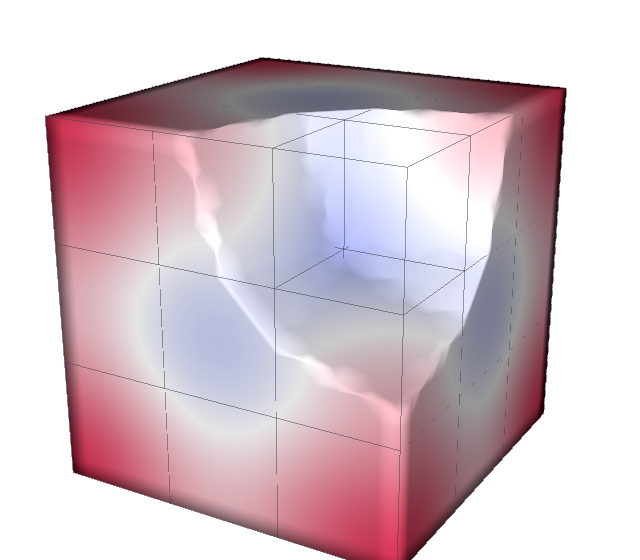
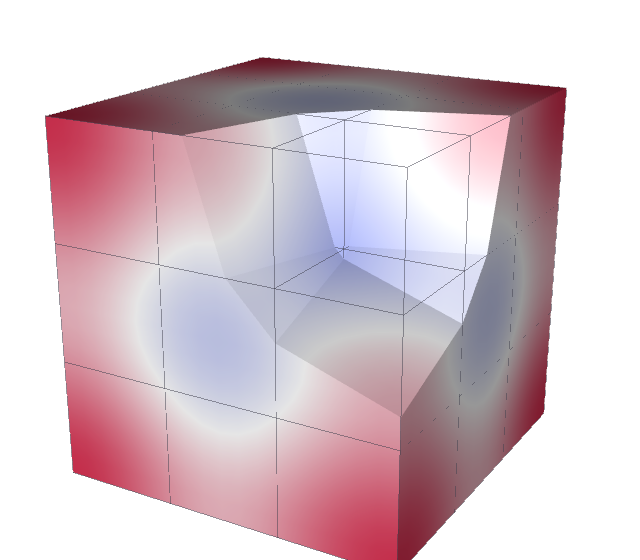
Gallery: Voronoi columns tile the cube, clipped solids shaded flat, slices lit mostly ambient; the page says how an implicit function is cut on straight cells

diff --git a/docs/gallery/_scene.py b/docs/gallery/_scene.py
@@ -64,21 +64,31 @@ def _twist(x):
 
 # ── The datasets ────────────────────────────────────────────────────
 
-def _voronoi_columns(n=60, layers=6, seed=3):
-    """Voronoi cells of random points over the unit square, the bounded ones,
-    extruded through the unit cube in ``layers``: polygonal prisms, faces of up to
-    a dozen points."""
+def _voronoi_columns(n=40, layers=6, seed=3):
+    """Voronoi cells of random points in the unit square, extruded through the unit
+    cube in ``layers``: polygonal prisms, faces of up to a dozen points. The points'
+    mirror images across the square's sides make the cells tile the square
+    exactly."""
     from scipy.spatial import Voronoi
 
     rng = np.random.default_rng(seed)
-    vor = Voronoi(rng.uniform(0, 1, (n, 2)))
-    regions = [r for r in (vor.regions[i] for i in vor.point_region)
-               if r and -1 not in r and all((0 <= vor.vertices[v]).all()
-                                            and (vor.vertices[v] <= 1).all() for v in r)]
+    seeds = rng.uniform(0, 1, (n, 2))
+    mirrored = [seeds]
+    for axis in (0, 1):
+        for side in (0.0, 1.0):
+            image = seeds.copy()
+            image[:, axis] = 2 * side - image[:, axis]
+            mirrored.append(image)
+    vor = Voronoi(np.concatenate(mirrored))
+    regions = [vor.regions[vor.point_region[i]] for i in range(n)]
+    # The mirrored cells' shared vertices are the square's; snap them onto it.
+    xy = np.clip(vor.vertices, 0.0, 1.0)
+    xy[np.abs(xy) < 1e-12] = 0.0
+    xy[np.abs(xy - 1) < 1e-12] = 1.0
     used = sorted({v for r in regions for v in r})
     renumber = {v: i for i, v in enumerate(used)}
     nv = len(used)
-    xy = vor.vertices[used]
+    xy = xy[used]
     points = np.array([[x, y, k / layers] for k in range(layers + 1) for x, y in xy])
     cells = []
     for r in regions:
@@ -150,9 +160,10 @@ def normals(surface):
 
 
 def boundary(data):
-    """``data``'s boundary as polygons with normals; a curved or high-order dataset
-    subdivided first, so it is linear."""
-    return normals(td.extract_surface(linear(data)))
+    """``data``'s boundary as polygons, a curved or high-order dataset subdivided
+    first, so it is linear. Shaded flat: a solid's boundary has sharp edges, which
+    point normals would smear."""
+    return td.extract_surface(linear(data))
 
 
 # ── Drawing ─────────────────────────────────────────────────────────
@@ -162,11 +173,13 @@ _COOL_TO_WARM = ((0.0, (0.23, 0.299, 0.754)), (0.5, (0.865, 0.865, 0.865)),
                  (1.0, (0.706, 0.016, 0.15)))
 
 
-def draw(path, parts, outline=None, view=(30.0, 20.0), size=(640, 560)):
+def draw(path, parts, outline=None, view=(30.0, 20.0), size=(640, 560), lit=True):
     """Draw ``parts`` -- ``(dataset, field name, range)``, a field on points or cells,
     or ``(dataset, None, None)`` for plain grey -- and ``outline`` (lines, thin and
     dark) to a PNG at ``path``, seen from ``view`` (azimuth and elevation in
-    degrees, from the -y side of the unit cube)."""
+    degrees, from the -y side of the unit cube). Lit less (``lit=False``), mostly
+    ambient, the parts show their colors, as a slice is read by them, with
+    enough shade to tell planes apart."""
     import vtkmodules.vtkCommonDataModel  # registers the pythonic constructors
     import vtkmodules.vtkRenderingOpenGL2  # noqa: F401  # registers the rendering backend
     from vtkmodules.vtkIOImage import vtkPNGWriter
@@ -205,9 +218,9 @@ def draw(path, parts, outline=None, view=(30.0, 20.0), size=(640, 560)):
         actor = vtkActor(mapper=mapper)
         if name is None:
             actor.property.color = (0.8, 0.8, 0.8)
-        actor.property.ambient = 0.2
-        actor.property.diffuse = 0.8
-        actor.property.specular = 0.2
+        actor.property.ambient = 0.2 if lit else 0.6
+        actor.property.diffuse = 0.8 if lit else 0.4
+        actor.property.specular = 0.2 if lit else 0.0
         renderer.AddActor(actor)
     if outline is not None:
         lines = vtkActor(mapper=vtkDataSetMapper(input_data=dataset_to_vtk(outline),

diff --git a/docs/gallery/slice.py b/docs/gallery/slice.py
@@ -31,8 +31,9 @@ def main():
     args = _scene.arguments(__doc__)
     for kind in args.kinds:
         data = _scene.dataset(kind)
-        parts = [(_scene.normals(cut), "u", (-3.0, 3.0)) for cut in slice_(data)]
-        _scene.draw(args.output / f"slice-{kind}.png", parts, outline=_scene.outline(data))
+        parts = [(cut, "u", (-3.0, 3.0)) for cut in slice_(data)]
+        _scene.draw(args.output / f"slice-{kind}.png", parts, outline=_scene.outline(data),
+                    lit=False)
 
 
 if __name__ == "__main__":

diff --git a/docs/vis-guide/gallery.md b/docs/vis-guide/gallery.md
@@ -92,7 +92,10 @@ the twisted geometry, not through its corners.
 A ball about the cube's near top corner taken out, the kept part's surface
 colored by the field. Polyhedra are clipped cell by cell into polyhedra; on the
 high-order and curved cells, the cells wholly kept stay whole and only the cut
-ones are cut on sub-cells.
+ones are cut on sub-cells. An implicit function is cut as the geometry carries
+it: on the 27 straight hexahedra the ball is trilinear in each cell, a coarse
+ball, while on the order-3 curved cells it is cubic, round to the eye. The
+boundaries are shaded flat, since a clipped solid has sharp edges.
 
 <div class="grid cards" markdown>
 
